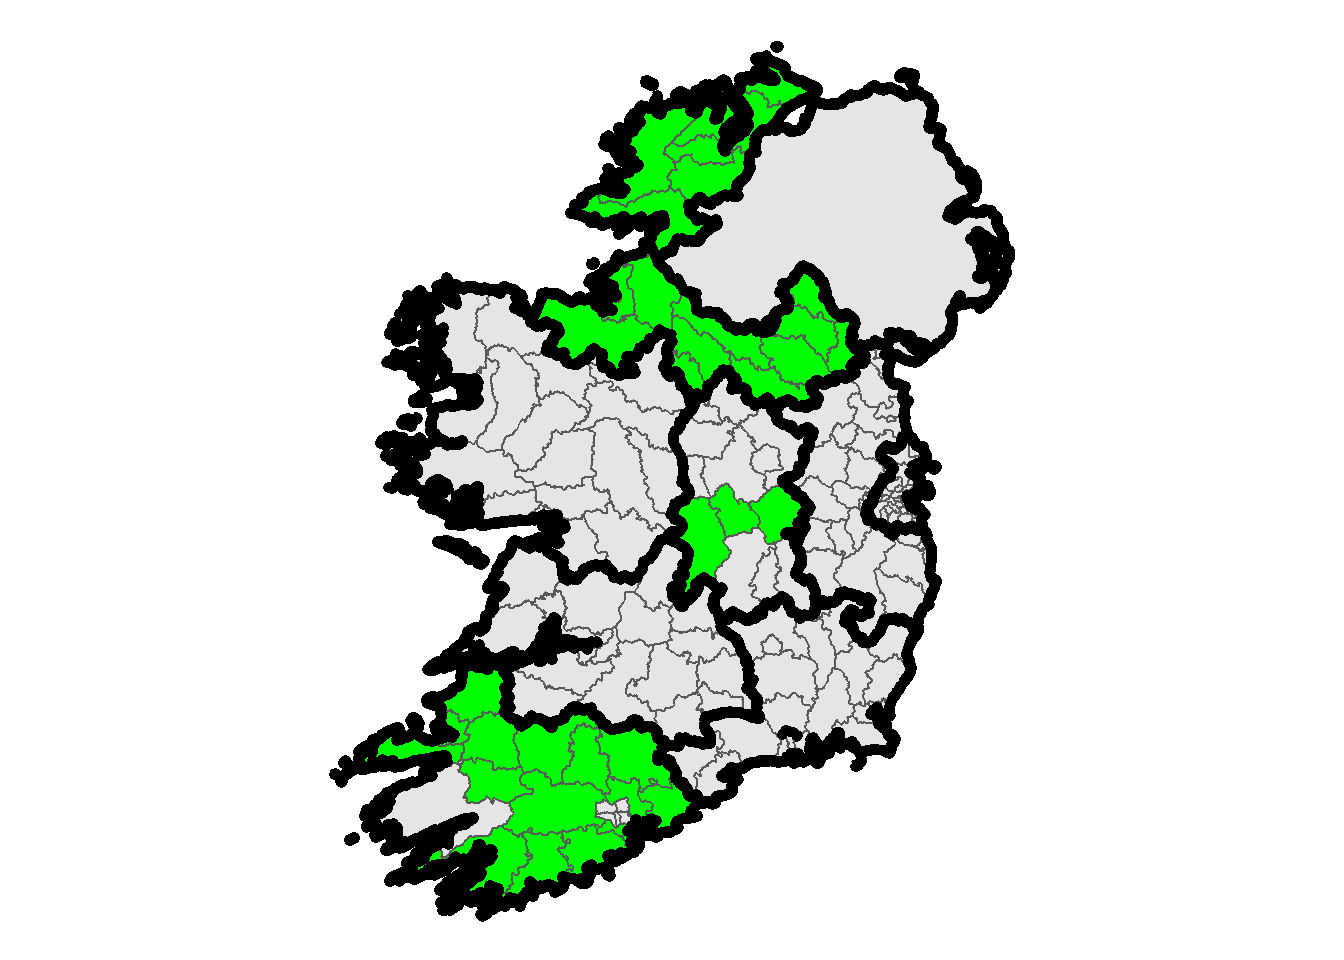
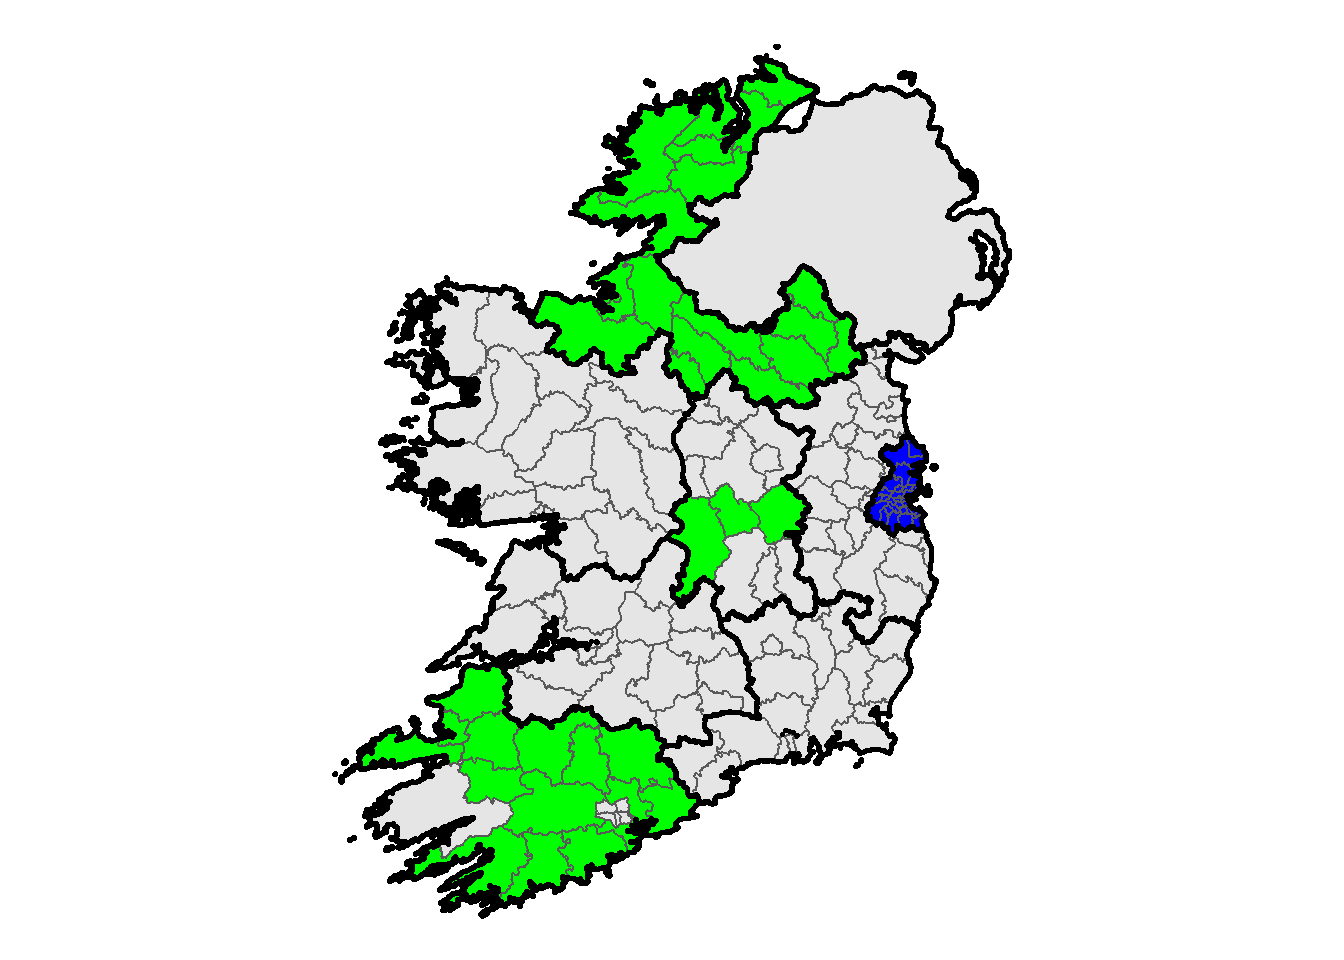
adding layers

Changed region(s): [[0.25, 0.0312, 0.75, 0.9688], [0.4375, 0.75, 0.5312, 0.8125], [0.6875, 0.5625, 0.7188, 0.625]]

diff --git a/docs/index.html b/docs/index.html
@@ -265,20 +265,21 @@ library(sf)</code></pre>
 <pre class="r"><code>ggplot() + 
   geom_sf(data = lea_166) +
   geom_sf(data = lea_166 %&gt;% filter(NUTS3 == &quot;Border&quot;) , fill=&quot;green&quot;)</code></pre>
-<p>The filter function is very powerful, and we can include multiple clauses separated by commas. Let’s say we want all LEAs in the Border and South-West NUTS 3 regions or in County Offaly, and excluding the LEA of Kenmare and any LEA that includes the string ‘Cork City’.</p>
+<p>The filter function is very powerful, and we can include multiple clauses separated by commas. Let’s say we want all LEAs in the Border and South-West NUTS 3 regions or in County Offaly, and excluding the LEA of Kenmare and any LEA that includes the string ‘Cork City’. I know this seems like a silly collection but hopefully it will give you a guide to making your own complex subsets.</p>
 <pre class="r"><code>selected_areas &lt;- lea_166 %&gt;% 
   filter(NUTS3 %in% c(&quot;Border&quot; ,&quot;South-West&quot;) | COUNTY ==&quot;Offaly&quot; , 
          LEA != &quot;Kenmare&quot;, 
          ! str_detect(LEA , &quot;Cork City&quot;)) </code></pre>
-<p>I could have used <code>&amp;</code> instead of the commas in the argument of <code>filter</code> above, but I would probably need to use brackets as well around the first logical OR operation. Anyway, let’s plot <code>selected_areas</code>.</p>
+<p>Note the use of <code>!</code> above in front of the <code>str_detect</code> function, which negates or produces the opposite of the logical expression in front of it. You could have used <code>&amp;</code> instead of the commas in the argument of <code>filter</code> above, but using logical AND as well as logical OR can be unambiguous, so you should use extra brackets if doing so. Anyway, let’s plot <code>selected_areas</code>.</p>
 <pre class="r"><code>ggplot() + 
   geom_sf(data = lea_166) +
   geom_sf(data = selected_areas , fill=&quot;green&quot;)</code></pre>
 <p><img src="index_files/figure-html/second_green_plot%20-1.png" width="672" /></p>
 </div>
-<div id="adding-more-layers-and-theme_void" class="section level2">
-<h2>Adding more layers and <code>theme_void()</code></h2>
-<p>Let’s take the previous map and add dark outlines for the NUTS 3 regions. I’m going to set <code>fill</code> to <code>NA</code> which means it won’t have any fill colour, then set the line colour to black using <code>colour="black"</code>, and I’ll set the line width to 2 using <code>size=2</code>.</p>
+<div id="adding-more-layers-and-using-theme_void" class="section level2">
+<h2>Adding more layers and using <code>theme_void()</code></h2>
+<p>Let’s take the previous map and add dark outlines for the NUTS 3 regions. I’m going to set <code>fill</code> to <code>NA</code> which means it won’t have any fill colour, then set the line colour to black using <code>colour="black"</code>, and I’ll set the line width to 1 using <code>size=1</code>.</p>
+<p>Let’s add another coloured layer, we’ll make all of Dublin blue. The line of code for this will need to go before the NUTS 3 outline, otherwise it will partially obscure that outline.</p>
 <p>I’m also going to add <code>theme_void()</code> here. With ggplot there are lots of different themes you can add to change the appearance of your plot, but for maps the only one I really use is <code>theme_void()</code>. It’s effect is to remove the axes and give you a clear background.</p>
 <pre class="r"><code>nuts_outline &lt;- lea_166 %&gt;% 
   group_by(NUTS3) %&gt;% 
@@ -287,7 +288,8 @@ library(sf)</code></pre>
 ggplot() + 
   geom_sf(data = lea_166) +
   geom_sf(data = selected_areas , fill=&quot;green&quot;) +
-  geom_sf(data = nuts_outline , fill= NA , colour=&quot;black&quot;, size=2) +
+  geom_sf(data = lea_166 %&gt;% filter(COUNTY==&quot;Dublin&quot;) , fill=&quot;blue&quot;) +
+  geom_sf(data = nuts_outline , fill= NA , colour=&quot;black&quot;, size=1) +
   theme_void()</code></pre>
 <p><img src="index_files/figure-html/nuts_outline%20-1.png" width="672" /></p>
 </div>
